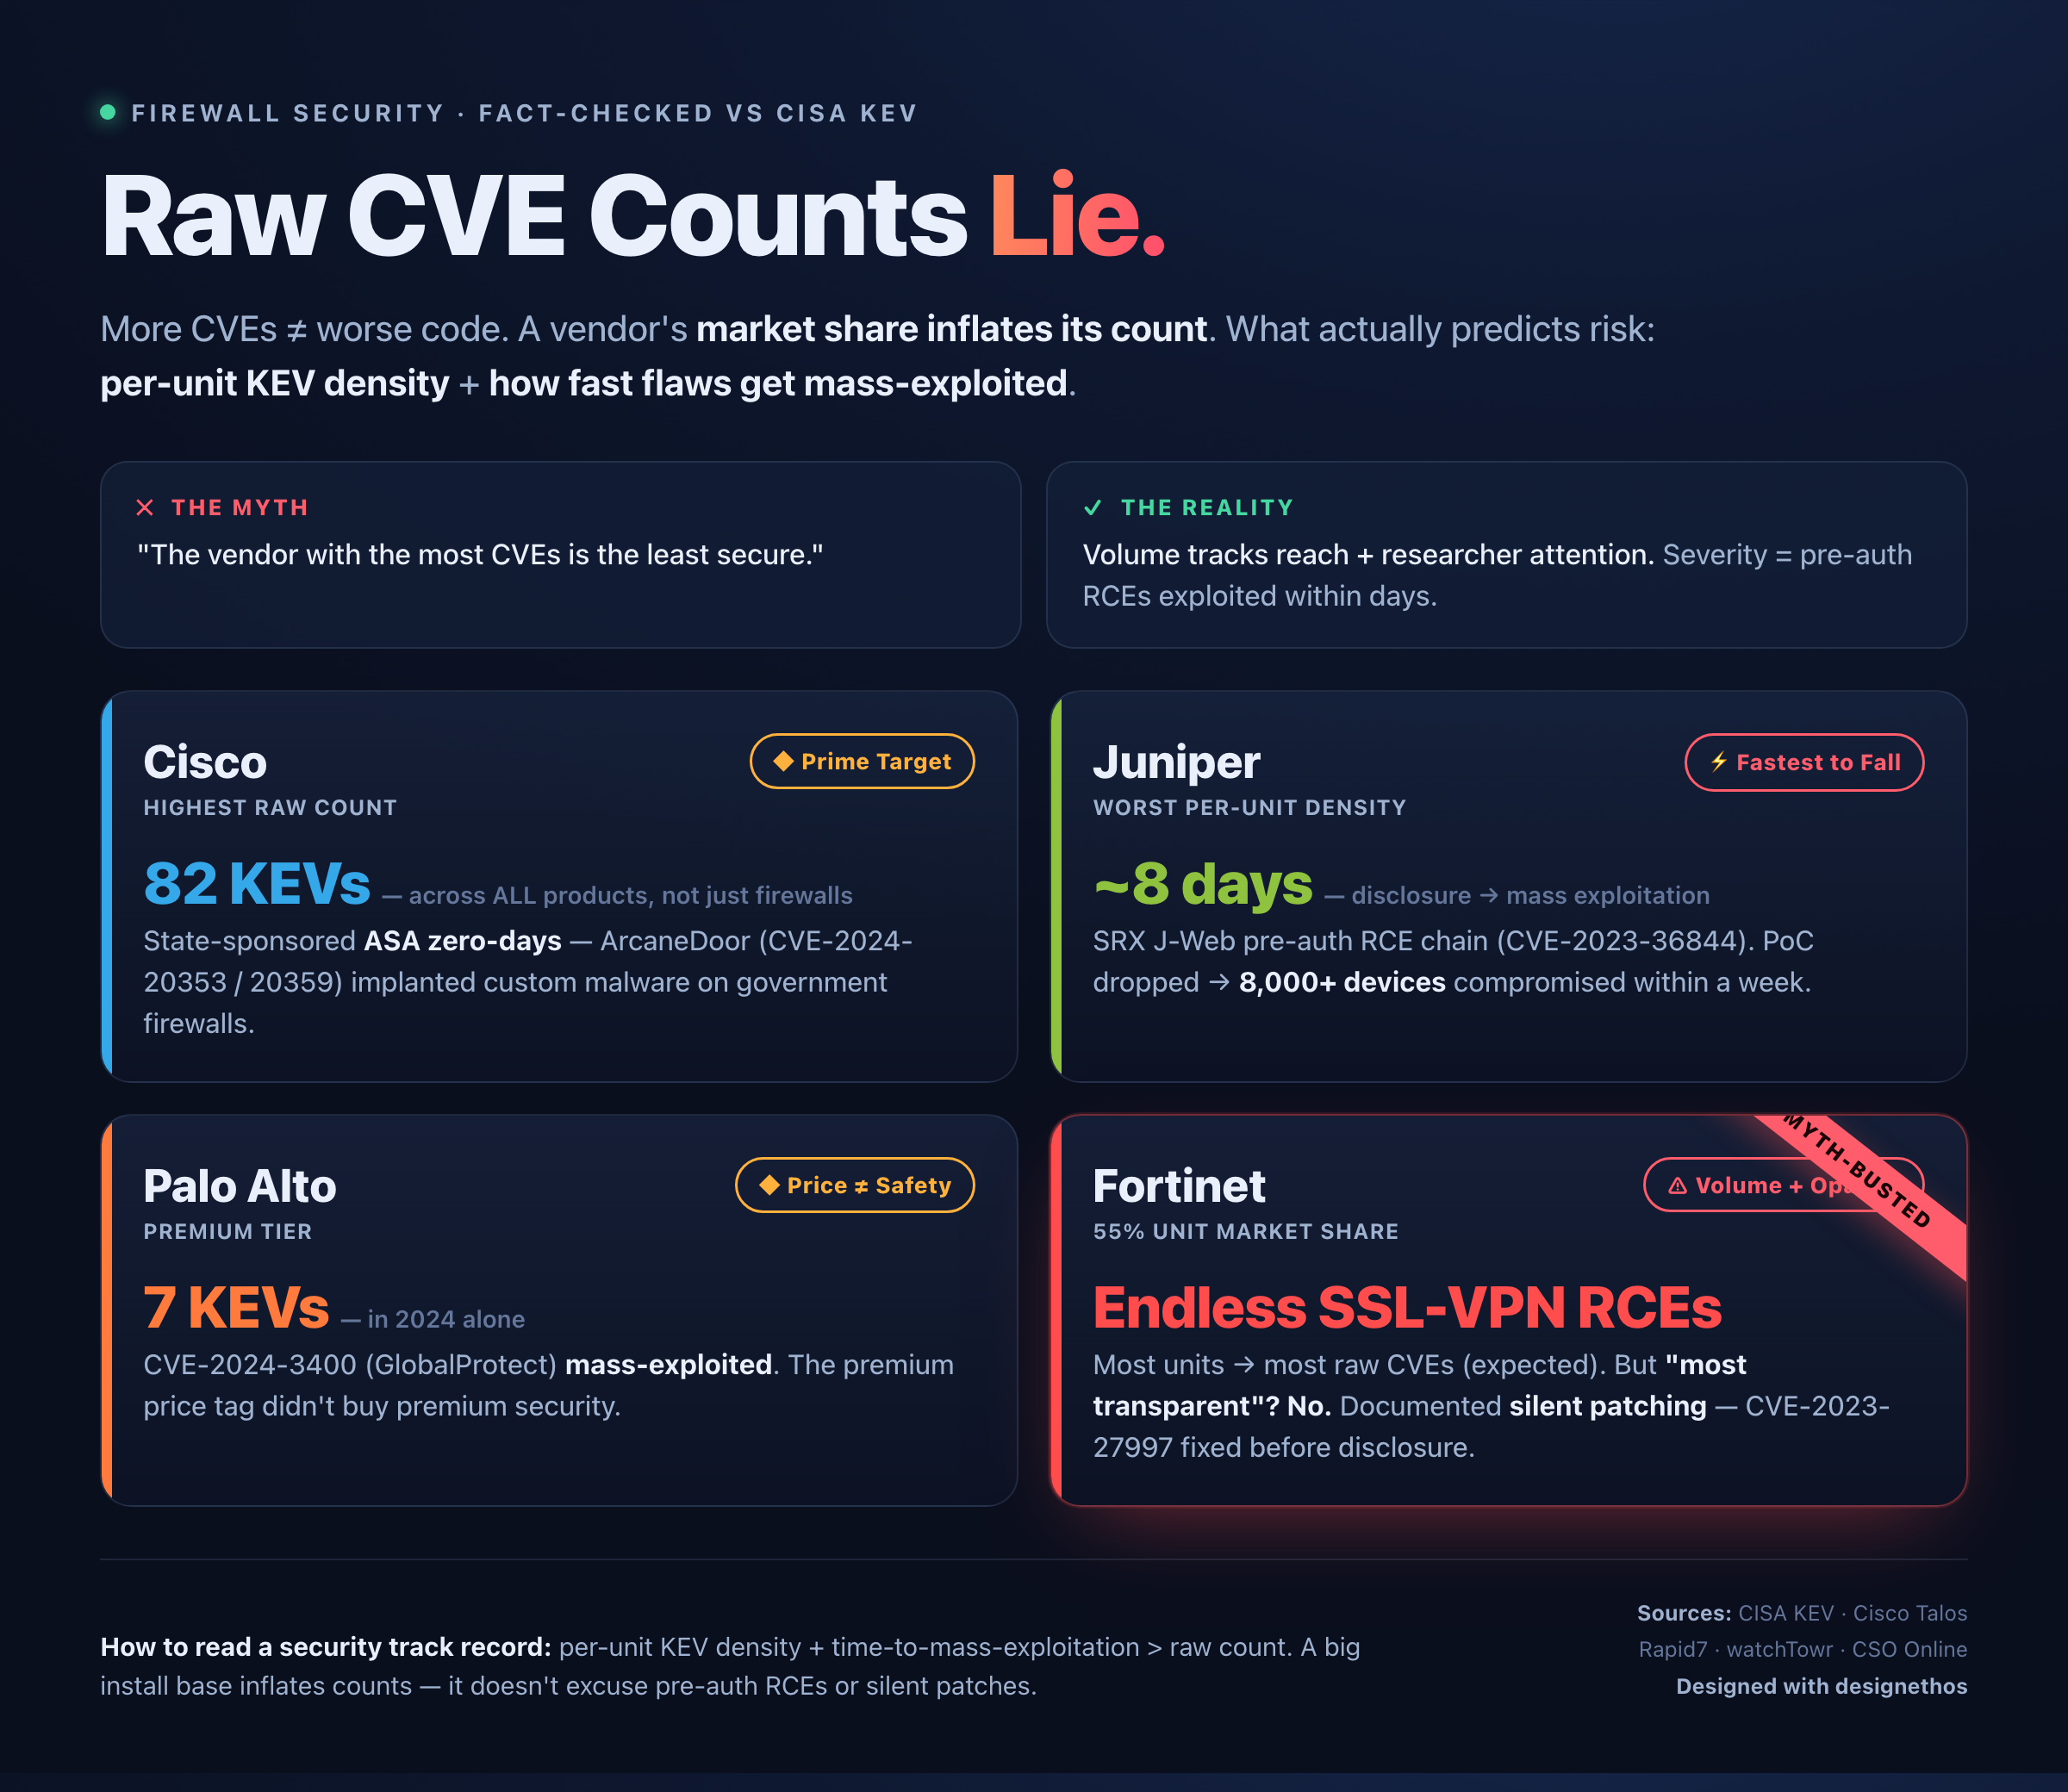
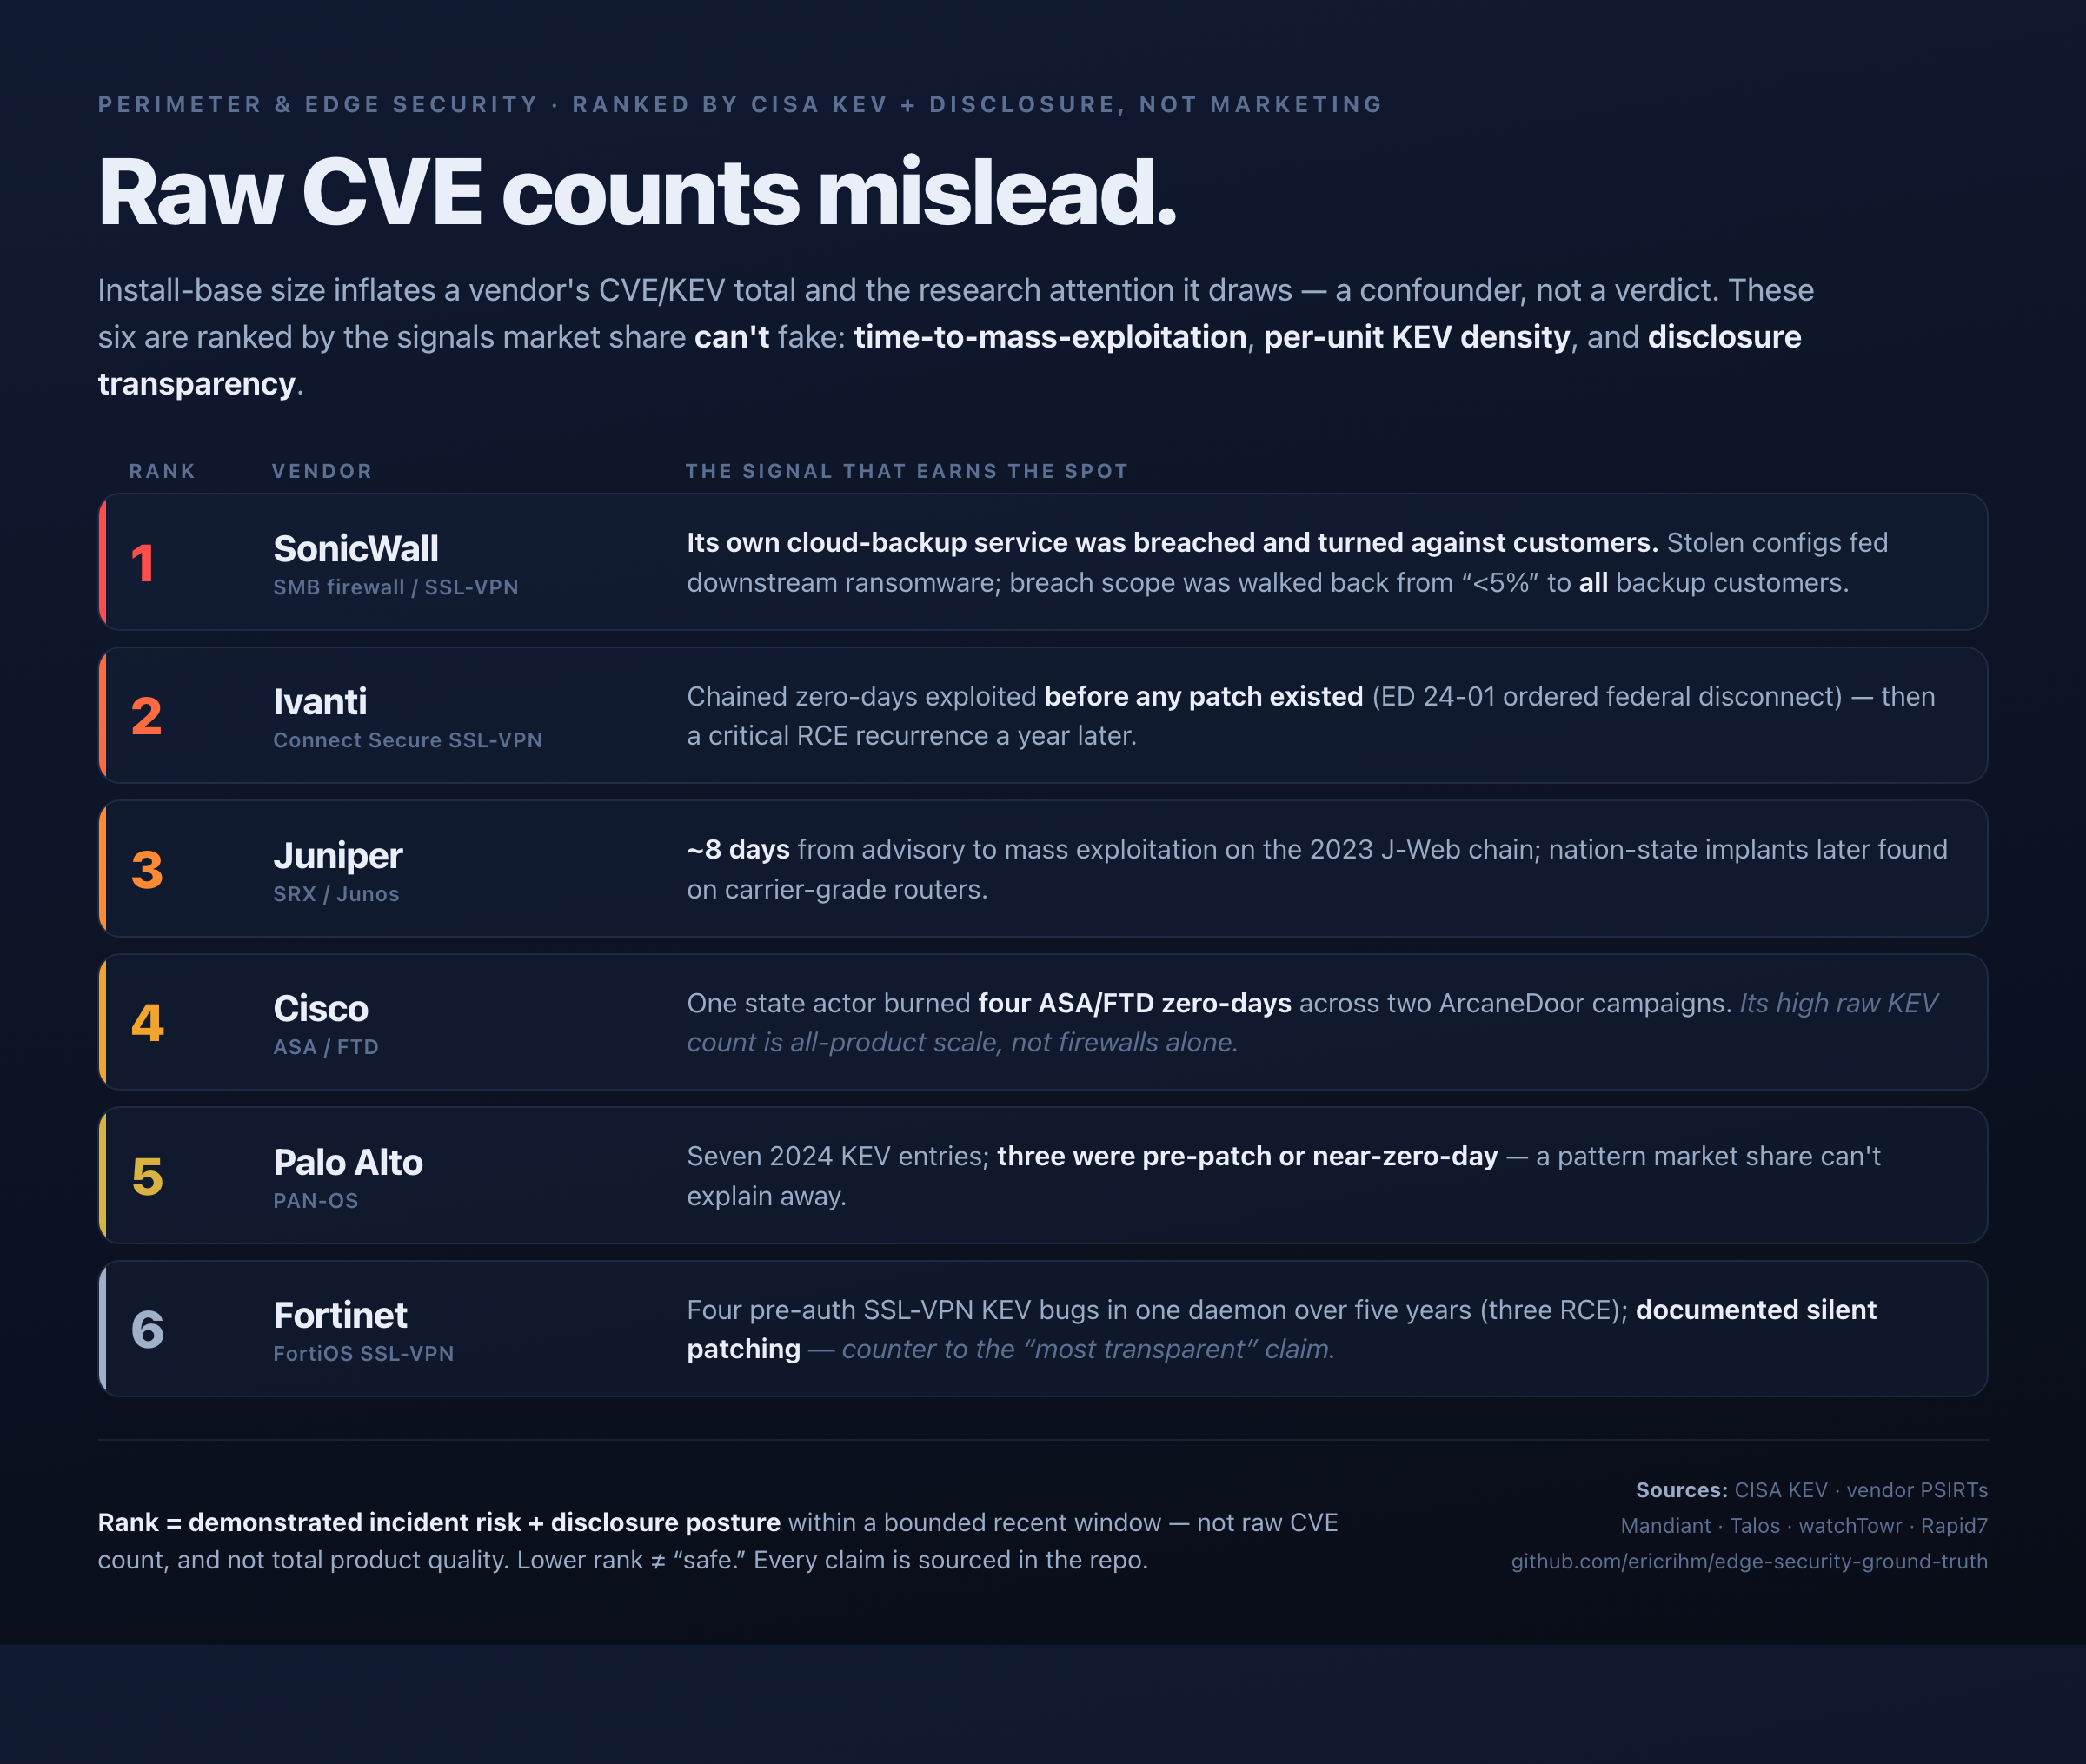
Replace scorecard infographic: neutral ranked-scorecard design
The prior chart gave Fortinet a "MYTH-BUSTED" ribbon + hero highlight, which
read as advertising for Fortinet and contradicted the repo (Fortinet is #6).
New version is a restrained 6-vendor ranked scorecard for a technical audience:
SonicWall #1 anchors a worst-to-least severity gradient, the Fortinet
transparency point is a factual annotation (not a focal ribbon), and the
market-share stat is reframed as a confounder, not a headline. Adds the chart
HTML source for reproducibility.

diff --git a/assets/scorecard.html b/assets/scorecard.html
@@ -1,0 +1,87 @@
+<!DOCTYPE html>
+<html lang="en">
+<head>
+<meta charset="UTF-8">
+<style>
+  :root{
+    --bg0:#090d18; --bg1:#0d1426; --ink:#e9eef9; --mut:#9aabc6; --faint:#5d6f90;
+    --line:rgba(140,165,210,.13); --rowbg:rgba(20,31,55,.5);
+  }
+  *{margin:0;padding:0;box-sizing:border-box}
+  body{width:1200px;font-family:-apple-system,"SF Pro Display","Inter",Segoe UI,system-ui,sans-serif;
+    color:var(--ink);background:linear-gradient(170deg,#101a32 0%,var(--bg1) 46%,var(--bg0) 100%);
+    -webkit-font-smoothing:antialiased}
+  .wrap{padding:52px 56px 38px}
+  .eyebrow{font-size:13px;letter-spacing:.18em;font-weight:700;color:var(--faint);text-transform:uppercase}
+  h1{font-size:54px;line-height:1.04;font-weight:840;letter-spacing:-.02em;margin:14px 0 0}
+  .sub{font-size:18px;line-height:1.5;color:var(--mut);max-width:1010px;margin-top:16px;font-weight:440}
+  .sub b{color:var(--ink);font-weight:680}
+
+  .heads{display:grid;grid-template-columns:64px 220px 1fr;gap:18px;margin:30px 0 6px;padding:0 18px;
+    font-size:11.5px;letter-spacing:.13em;text-transform:uppercase;color:var(--faint);font-weight:700}
+  .row{display:grid;grid-template-columns:64px 220px 1fr;gap:18px;align-items:center;
+    padding:16px 18px;border-radius:13px;background:var(--rowbg);border:1px solid var(--line);margin-bottom:9px;
+    position:relative;overflow:hidden}
+  .row::before{content:"";position:absolute;left:0;top:0;bottom:0;width:4px;background:var(--sev)}
+  .rank{display:flex;align-items:center;gap:0}
+  .rank .n{font-size:30px;font-weight:850;color:var(--sev);line-height:1;letter-spacing:-.03em;width:46px}
+  .vendor{font-size:21px;font-weight:760;letter-spacing:-.01em}
+  .vendor .tag{display:block;font-size:12px;font-weight:600;color:var(--faint);letter-spacing:.02em;margin-top:3px;text-transform:none}
+  .signal{font-size:15.5px;line-height:1.46;color:var(--mut)}
+  .signal b{color:var(--ink);font-weight:660}
+  .signal .note{color:var(--faint);font-style:italic}
+
+  .foot{margin-top:24px;padding-top:18px;border-top:1px solid var(--line);
+    display:flex;justify-content:space-between;align-items:flex-end;gap:28px}
+  .foot .m{font-size:14.5px;line-height:1.5;color:var(--mut);max-width:740px}
+  .foot .m b{color:var(--ink)}
+  .foot .src{font-size:12px;color:var(--faint);text-align:right;line-height:1.7;white-space:nowrap}
+  .foot .src b{color:var(--mut)}
+</style>
+</head>
+<body>
+<div class="wrap">
+  <div class="eyebrow">Perimeter &amp; Edge Security · ranked by CISA KEV + disclosure, not marketing</div>
+  <h1>Raw CVE counts mislead.</h1>
+  <p class="sub">Install-base size inflates a vendor's CVE/KEV total and the research attention it draws — a confounder, not a verdict. These six are ranked by the signals market share <b>can't</b> fake: <b>time-to-mass-exploitation</b>, <b>per-unit KEV density</b>, and <b>disclosure transparency</b>.</p>
+
+  <div class="heads"><div>Rank</div><div>Vendor</div><div>The signal that earns the spot</div></div>
+
+  <div class="row" style="--sev:#ff4d4d">
+    <div class="rank"><span class="n">1</span></div>
+    <div class="vendor">SonicWall<span class="tag">SMB firewall / SSL-VPN</span></div>
+    <div class="signal"><b>Its own cloud-backup service was breached and turned against customers.</b> Stolen configs fed downstream ransomware; breach scope was walked back from &ldquo;&lt;5%&rdquo; to <b>all</b> backup customers.</div>
+  </div>
+  <div class="row" style="--sev:#ff6a40">
+    <div class="rank"><span class="n">2</span></div>
+    <div class="vendor">Ivanti<span class="tag">Connect Secure SSL-VPN</span></div>
+    <div class="signal">Chained zero-days exploited <b>before any patch existed</b> (ED 24-01 ordered federal disconnect) — then a critical RCE recurrence a year later.</div>
+  </div>
+  <div class="row" style="--sev:#ff8a33">
+    <div class="rank"><span class="n">3</span></div>
+    <div class="vendor">Juniper<span class="tag">SRX / Junos</span></div>
+    <div class="signal"><b>~8 days</b> from advisory to mass exploitation on the 2023 J-Web chain; nation-state implants later found on carrier-grade routers.</div>
+  </div>
+  <div class="row" style="--sev:#f0a52e">
+    <div class="rank"><span class="n">4</span></div>
+    <div class="vendor">Cisco<span class="tag">ASA / FTD</span></div>
+    <div class="signal">One state actor burned <b>four ASA/FTD zero-days</b> across two ArcaneDoor campaigns. <span class="note">Its high raw KEV count is all-product scale, not firewalls alone.</span></div>
+  </div>
+  <div class="row" style="--sev:#d8b341">
+    <div class="rank"><span class="n">5</span></div>
+    <div class="vendor">Palo Alto<span class="tag">PAN-OS</span></div>
+    <div class="signal">Seven 2024 KEV entries; <b>three were pre-patch or near-zero-day</b> — a pattern market share can't explain away.</div>
+  </div>
+  <div class="row" style="--sev:#9fb0c8">
+    <div class="rank"><span class="n">6</span></div>
+    <div class="vendor">Fortinet<span class="tag">FortiOS SSL-VPN</span></div>
+    <div class="signal">Four pre-auth SSL-VPN KEV bugs in one daemon over five years (three RCE); <b>documented silent patching</b> <span class="note">— counter to the &ldquo;most transparent&rdquo; claim.</span></div>
+  </div>
+
+  <div class="foot">
+    <div class="m"><b>Rank = demonstrated incident risk + disclosure posture</b> within a bounded recent window — not raw CVE count, and not total product quality. Lower rank ≠ &ldquo;safe.&rdquo; Every claim is sourced in the repo.</div>
+    <div class="src"><b>Sources:</b> CISA KEV · vendor PSIRTs<br>Mandiant · Talos · watchTowr · Rapid7<br>github.com/ericrihm/edge-security-ground-truth</div>
+  </div>
+</div>
+</body>
+</html>